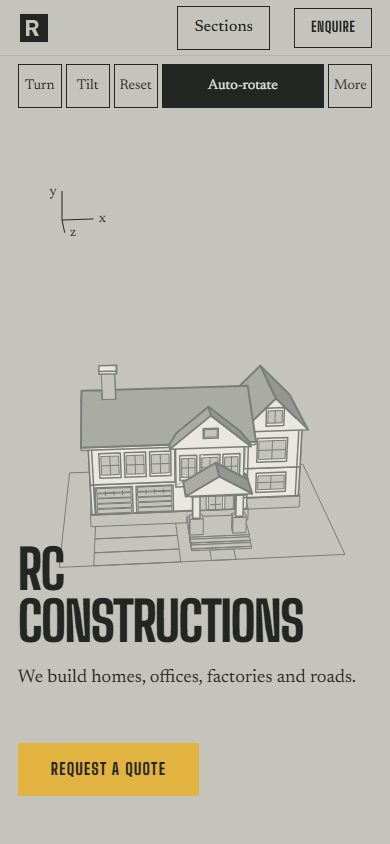
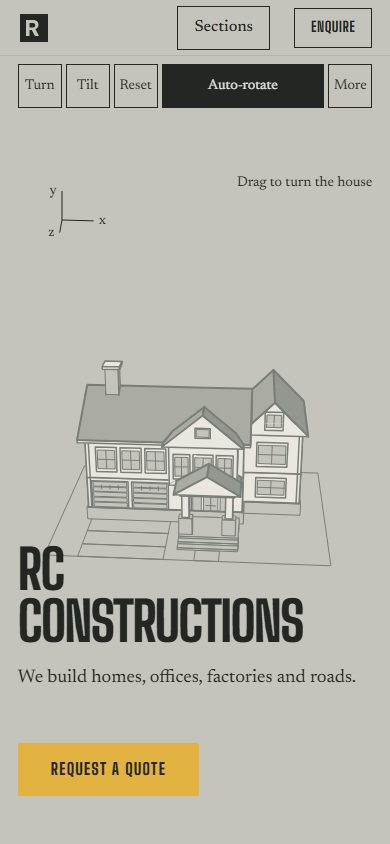
fix: phase 15A follow-up, clear wall fills under text and fit the founder portrait
Below 1024 px the wall fills of the background building are hidden under a block of text as
well, so text areas are clear and the building shows between the blocks. On wide screens the
Founder portrait slot is sized to the screen so the whole 4:5 frame is in view beside the text.
Handover screenshots, after sheets and the review notes were refreshed.

diff --git a/src/components/Building/textClear.ts b/src/components/Building/textClear.ts
@@ -11,11 +11,11 @@ import { MOTION } from '../../lib/motion';
  * Text rectangles are measured in document coordinates once (and again when the layout changes),
  * so each scroll frame is only arithmetic plus one bounding-box read per detail element.
  */
-/** Detail that is hidden under text (window frames and openings, panes, mullions, rails, strings, and the thin slab and beam strips, which read as highlight bars behind a line of text). */
+/** What is hidden under text: window frames, openings and panes, mullions, rails, strings, the thin slab and beam strips (they read as highlight bars behind a line of text) and the wall fills. */
 const DETAIL =
-  '.b-mullion, .b-frame, .b-pane, .b-rail, .b-stair, .b-string, .b-starter, .b-level, .b-datum, .b-opening, .b-door, .b-slab, .b-beam, .b-canopy, .b-ground-slab, .b-stub, .b-tie';
-/** Structure whose outline is hidden under text (the fill stays, so the building is still there). */
-const OUTLINE = '.b-wall, .b-col, .b-core, .b-parapet, .b-footing';
+  '.b-mullion, .b-frame, .b-pane, .b-rail, .b-stair, .b-string, .b-starter, .b-level, .b-datum, .b-opening, .b-door, .b-slab, .b-beam, .b-canopy, .b-ground-slab, .b-stub, .b-tie, .b-wall, .b-parapet';
+/** Structure that keeps its fill under text but loses its outline (columns, core, footings). */
+const OUTLINE = '.b-col, .b-core, .b-footing';
 const TEXT_SCOPE = '.sheet-stage :is(h1, h2, h3, p, li, span, td, dt, dd, a, strong)';
 
 interface Box {

diff --git a/src/sections/Founder/Founder.css b/src/sections/Founder/Founder.css
@@ -169,6 +169,14 @@
   color: var(--color-ink-muted-light);
 }
 
+/* Wide screens: the portrait slot is no taller than the screen allows, so the whole frame is in view
+   beside the text (it keeps its 4:5 shape) */
+@media (width >= 1024px) {
+  .founder-portrait-frame {
+    max-width: min(440px, calc((100dvh - 26rem) * 0.8));
+  }
+}
+
 /* Responsive (< 1024px) */
 @media (width < 1024px) {
   .founder-grid {

diff --git a/docs/DESIGN-REVIEW-phase-15a.md b/docs/DESIGN-REVIEW-phase-15a.md
@@ -10,14 +10,14 @@ Leftovers that Phase 14E itself did not finish (its independent review and a mea
 
 ## Part A: the leftovers
 
-| #   | Leftover                                  | Result                                                                                                                                                                                                                                                                                                                                                                                                                                                                                        |
-| --- | ----------------------------------------- | --------------------------------------------------------------------------------------------------------------------------------------------------------------------------------------------------------------------------------------------------------------------------------------------------------------------------------------------------------------------------------------------------------------------------------------------------------------------------------------------- |
-| 1   | Text over the building looks busy (phone) | **Improved, not closed.** Below 1024 px, building detail under a line of text is hidden by region (window frames and openings, mullions, lit panes, rails, the stair, strings, and the thin slab, beam and canopy strips) and structure there loses its outline; the gaps between text blocks are wider. Contrast sampling still passes at 390 and 768. The ghost wall fills still sit behind the words. Frames: `before/sheet-*.jpg` against `after/sheet-*.jpg`, `390x844-structure-1.jpg`. |
-| 2   | The phone house dissolve is dim           | **Fixed.** The house keeps the full tones until the dissolve starts and is dimmed only during it (`--hm-dim`); the hero is unchanged. `after/sheet-morph-390.jpg` against `before/sheet-morph-390.jpg`; test in `e2e/phase-15a.spec.ts`.                                                                                                                                                                                                                                                      |
-| 3   | The phone control strip is crowded        | **Fixed.** Up to 640 px: Turn, Tilt, Reset, Auto-rotate and More on one row, with Turn left, Tilt down, Roll left and Roll right behind More (roll is also a two-finger twist). Targets are at least 44 px and nothing wraps at 360 or 390 px (tested). Wide screens keep all eight controls.                                                                                                                                                                                                 |
-| 4   | No JavaScript                             | **Fixed.** `index.html` inlines the static house and a finished building drawn from the same geometry (all windows lit, entrance, name plate). Tested with JavaScript disabled at 1440x900 and 390x844 (`e2e/phase-15a.spec.ts`); pictures `no-javascript-*` in the handover.                                                                                                                                                                                                                 |
-| 5   | Ambiguous roof and porch views            | **Not reproduced as an ordering fault.** The Phase 14E reference test compares the drawing with an independent z-buffer on every grid orientation and 50 random ones (worst mismatch 0.000%). The side view still looks like roof slabs beside the gable because the roofs have overhangs and the porch posts are thin; that is the geometry as designed, so it was not changed. Roof undersides carry no detail.                                                                             |
-| 6   | Earlier 14B layout items                  | **Not reproduced.** Anchor jumps put every heading below the header at 390, 768 and 1440 px (heading top 112 px against a header 56 px high at 390 and 768); no grey band above About at 1440; Founder and Contact are centred and balanced at 2560x1080. Founder still looks sparse (see weakest list).                                                                                                                                                                                      |
+| #   | Leftover                                  | Result                                                                                                                                                                                                                                                                                                                                                                                                                                                                                                                                                                          |
+| --- | ----------------------------------------- | ------------------------------------------------------------------------------------------------------------------------------------------------------------------------------------------------------------------------------------------------------------------------------------------------------------------------------------------------------------------------------------------------------------------------------------------------------------------------------------------------------------------------------------------------------------------------------- |
+| 1   | Text over the building looks busy (phone) | **Improved, not closed.** Below 1024 px, building detail under a line of text is hidden by region (window frames and openings, mullions, lit panes, rails, the stair, strings, the thin slab, beam and canopy strips, and, after the review, the wall fills) and columns, core and footings there lose their outline; the gaps between text blocks are wider. Contrast sampling still passes at 390 and 768. Text areas are now clear; the building is seen in patches between the blocks. Frames: `before/sheet-*.jpg` against `after/sheet-*.jpg`, `390x844-structure-1.jpg`. |
+| 2   | The phone house dissolve is dim           | **Fixed.** The house keeps the full tones until the dissolve starts and is dimmed only during it (`--hm-dim`); the hero is unchanged. `after/sheet-morph-390.jpg` against `before/sheet-morph-390.jpg`; test in `e2e/phase-15a.spec.ts`.                                                                                                                                                                                                                                                                                                                                        |
+| 3   | The phone control strip is crowded        | **Fixed.** Up to 640 px: Turn, Tilt, Reset, Auto-rotate and More on one row, with Turn left, Tilt down, Roll left and Roll right behind More (roll is also a two-finger twist). Targets are at least 44 px and nothing wraps at 360 or 390 px (tested). Wide screens keep all eight controls.                                                                                                                                                                                                                                                                                   |
+| 4   | No JavaScript                             | **Fixed.** `index.html` inlines the static house and a finished building drawn from the same geometry (all windows lit, entrance, name plate). Tested with JavaScript disabled at 1440x900 and 390x844 (`e2e/phase-15a.spec.ts`); pictures `no-javascript-*` in the handover.                                                                                                                                                                                                                                                                                                   |
+| 5   | Ambiguous roof and porch views            | **Not reproduced as an ordering fault.** The Phase 14E reference test compares the drawing with an independent z-buffer on every grid orientation and 50 random ones (worst mismatch 0.000%). The side view still looks like roof slabs beside the gable because the roofs have overhangs and the porch posts are thin; that is the geometry as designed, so it was not changed. Roof undersides carry no detail.                                                                                                                                                               |
+| 6   | Earlier 14B layout items                  | **Not reproduced.** Anchor jumps put every heading below the header at 390, 768 and 1440 px (heading top 112 px against a header 56 px high at 390 and 768); no grey band above About at 1440; Founder and Contact are centred and balanced at 2560x1080. Founder still looks sparse (see weakest list).                                                                                                                                                                                                                                                                        |
 
 Also changed because a fresh reviewer found it (see below): the dimension labels (for example "8.6 m") were drawn under the house and could be hidden behind a roof; they are now drawn over it.
 
@@ -57,12 +57,12 @@ A fresh-context reviewer was given only the handover screenshots, `DEMO-SCRIPT.m
 
 | Finding                                                                                                                                                                          | Response                                                                                                                                                                                                                                                                                                                                                                                            |
 | -------------------------------------------------------------------------------------------------------------------------------------------------------------------------------- | --------------------------------------------------------------------------------------------------------------------------------------------------------------------------------------------------------------------------------------------------------------------------------------------------------------------------------------------------------------------------------------------------- |
-| Leftover 1 partly closed: hairlines and pale blocks still behind text, grey bars like highlights on phones.                                                                      | Agreed. After review the thin slab, beam, canopy, stub and tie strips (the "bars") are also hidden under text. The ghost wall fills behind words remain; they are fills, not hairlines, and removing them would hide the building where the text is. Still weakest.                                                                                                                                 |
+| Leftover 1 partly closed: hairlines and pale blocks still behind text, grey bars like highlights on phones.                                                                      | Agreed. After review the thin slab, beam, canopy, stub and tie strips (the "bars") and then the wall fills are also hidden under text, so text areas are clear and the building shows in patches between the blocks (`after/sheet-*.jpg` were taken before this last step; see the frames in `docs/review/phase-15a/after/`). The patchy building is the cost.                                      |
 | Leftover 2 cannot be judged; house angles on a dark ground do not match the light hero.                                                                                          | Added four hand-over frames (`morph-1` to `morph-4`, including the dissolve) and moved the house angles onto the hero's concrete.                                                                                                                                                                                                                                                                   |
 | Leftover 3: "More" alone on a second row looks like wrapping; nothing at 360 px.                                                                                                 | Changed to one row (Turn, Tilt, Reset, Auto-rotate, More) at 390 and 360 px, with a test for width, height and wrapping at both.                                                                                                                                                                                                                                                                    |
 | Leftover 4 cannot be shown.                                                                                                                                                      | Added `no-javascript-*` pictures.                                                                                                                                                                                                                                                                                                                                                                   |
 | Leftover 5: side view looks like floating roof slabs; no rolled view.                                                                                                            | Added a rolled view. The side view is the geometry as designed (overhangs, thin posts) and equals the source by the reference test; not changed.                                                                                                                                                                                                                                                    |
-| Leftover 6: Founder lopsided with an empty portrait frame.                                                                                                                       | The portrait is a quiet placeholder until real files are committed (listed in `CONTENT-STATUS.md`). The layout is not changed in this phase. Still weak.                                                                                                                                                                                                                                            |
+| Leftover 6: Founder lopsided with an empty portrait frame.                                                                                                                       | After the review the portrait slot is sized to the screen on wide screens (it keeps its 4:5 shape and now sits fully in view beside the text at 1440x900: `after/founder-1440.jpg`). The portrait is still a quiet placeholder until real files are committed (listed in `CONTENT-STATUS.md`); the text column is short, so the lower left is still empty. Still weak.                              |
 | Leftover 7: no sample label visible in the Projects pictures.                                                                                                                    | The note sits under the Projects heading and the pictures had scrolled past it; the capture now starts at the heading. The sample projects' exact places and years still read as real; the note is small. Still weak.                                                                                                                                                                               |
 | Script contradictions: "the building never gets ahead", "pause on step 04 (the frame rises)", "Services lists the trades", "each row previews a drawing", the 99 and 100 scores. | True of the page, not of my wording. The step map from Phase 14B draws the foundation through steps 01 to 03 (planning steps) and the frame at step 04 ("Mobilisation"); the process copy was not changed. The script now says so plainly, says Services lists kinds of building, says a hover previews a project, and gives 98 to 99 and 100. The mapping of copy to stage is itself weak (below). |
 | Script surprises: header says "Principles" and "Track record"; eight buttons on desktop against four on a phone; few lit windows on phone Work delivered.                        | The script now names the header links and both control sets. The phone Work delivered plates hide most of the lit floors by design (they keep text legible); not changed.                                                                                                                                                                                                                           |
@@ -77,11 +77,15 @@ A fresh-context reviewer was given only the handover screenshots, `DEMO-SCRIPT.m
 
 `pnpm test:e2e`, all five projects (chromium, Mobile Chrome, chromium-reduced-motion, firefox, webkit; 1,135 tests, 4 workers), run after the last code change (`docs/review/phase-15a/e2e-final2.log`): **803 passed, 331 skipped (tests that apply to other projects), 1 failed**. The failure was the 14C focus-ring test on chromium-reduced-motion, which read the outline while the browser was still easing it in (3 px and no offset instead of 2 px and 2 px). The test now polls until the computed style settles instead of reading it at once; the whole 14C file then passed on all five projects, and the focus-ring test passed three more times on all five. The full suite was not run again after that test-only change. The earlier full run, before the review-driven changes (strip on one row, bars under text, dimension labels over the house), had 801 passed and 3 failed (two WebKit flakes and the Firefox advisory above), which were fixed as described.
 
+## Follow-up after the first commit
+
+Two of the weakest points were worked on in a second commit: under text on phones the wall fills are now hidden too (the text areas are clear, the building shows in patches between blocks), and on wide screens the Founder portrait slot is sized so the whole frame is in view beside the text (it keeps its 4:5 shape). The handover screenshots and the after sheets were taken again. `pnpm check` and `pnpm size` (145.66 kB) pass, and the Phase 12, 13, 14D and 15A specs pass on chromium, Mobile Chrome and chromium-reduced-motion (109 passed, 26 skipped). The full five-project suite was not run again after this follow-up. The loose mapping of the process copy to the building stages was not changed: it needs the company's own wording for the steps.
+
 ## What is still weakest
 
-1. Text over the building on phones is calmer but not clean: ghost wall fills still sit behind the words, and thin bars show at the edges of text blocks.
+1. Text over the building on phones is clear under the words but patchy: the building is only seen between the text blocks, so it can look fragmentary.
 2. The mapping of the process copy to the building stages is loose: steps 01 to 03 (visit, estimate, approvals) are drawn as site and foundation work, step 04 ("Mobilisation") is where the frame rises. It is by order and screen position, not word for word.
-3. Founder and the contact portrait look unfinished until real photos arrive; wide screens leave large empty areas there.
+3. Founder looks sparse until real photos and more founder facts arrive: the portrait is a placeholder and the text column is short.
 4. The sample projects carry plausible places, years and areas; the "sample" note is one small line.
 5. Header: split light and dark over the sheets; the labels "Principles" and "Track record" differ from the section names.
 6. Dimension lines can now cross the house at some angles; roof undersides have no detail.

diff --git a/CLAUDE.md b/CLAUDE.md
@@ -83,7 +83,7 @@ Single-page scroll-driven portfolio site where a building is progressively const
 - Below 1024 px the building is a muted ghost (limewash and concrete text keeps 4.5:1 over any pixel of it); Work delivered blocks sit on flat opaque plates because the windows are full amber there; no translucency, blur or gradient anywhere. `e2e/phase-14d.spec.ts` samples the pixels behind every text block.
 - Phase 14E: the house is drawn from a BSP (`src/lib/model3d/house.bsp.json`) built from the source geometry in `house.ts` by `pnpm model:bsp`; never edit the JSON by hand and never go back to sorting faces by depth. A unit test fails if the JSON is out of date. Keep faces flat, convex and wound outward, put each decal on a face of its own solid, and re-run `pnpm model:bsp`, `pnpm test` and `e2e/phase-14e.spec.ts` after any geometry change (`docs/BUILDING.md` section 6). The orientation is a quaternion (`orientation.ts`): turn about the vertical, tilt about the screen's horizontal axis (limited by elevation), roll about the view axis; reset and the morph use slerp. The bounding sphere must stay inside its container at every rotation.
 - Face paths are integer quarter pixels in a group scaled by 0.25 (face CSS strokes are four times their pixel width). Do not add `vector-effect`, per-element custom properties or per-frame class changes to face paths: they cost more than the drawing. Frame cost at a 4x slowdown must stay at or under 4 ms median.
-- Phase 15A, below 1024 px: the house keeps its full tone until the dissolve starts and is dimmed only during it (`--hm-dim`, from `MOTION.morph.dissolveStart` to `dimEnd`). Building hairlines, window detail and lit panes under a block of text are hidden by region (`src/components/Building/textClear.ts`, `MOTION.textClear`; visibility and outline only, never removed, nothing under 1024 px is cleared on wide screens). Phones (up to 640 px) show Turn, Tilt, Reset and Auto-rotate plus a "More" disclosure (the other directions and roll); the visible short label is contained in the full accessible name, and every target stays 44 px with no wrapping at 360 px.
+- Phase 15A, below 1024 px: the house keeps its full tone until the dissolve starts and is dimmed only during it (`--hm-dim`, from `MOTION.morph.dissolveStart` to `dimEnd`). Building hairlines, window detail and lit panes under a block of text are hidden by region (`src/components/Building/textClear.ts`, `MOTION.textClear`; visibility and outline only, never removed, wall fills included, nothing under 1024 px is cleared on wide screens). Phones (up to 640 px) show Turn, Tilt, Reset and Auto-rotate plus a "More" disclosure (the other directions and roll); the visible short label is contained in the full accessible name, and every target stays 44 px with no wrapping at 360 px.
 - No-JS: `index.html` inlines the static house (`%HERO_MODEL_SVG%`) and the finished building (`%BUILDING_SVG%`, `src/lib/buildingStatic.ts`, styled by `StaticBuilding.css`); `e2e/phase-15a.spec.ts` loads it with JavaScript disabled on desktop and phone widths.
 - Amber only on its dimension lines and labels. Reduced motion: no auto-rotate, inertia or easing. No-JS: the static SVG inlined from `index.html` (`%HERO_MODEL_SVG%`).
 

diff --git a/docs/BUILDING.md b/docs/BUILDING.md
@@ -93,7 +93,7 @@ Controls fade first (`controlsFadeEnd`) and the widget is `inert` once the hero 
 
 ## 3b. Release candidate changes (Phase 15A)
 
-- **Text over the building (below 1024 px).** `src/components/Building/textClear.ts` measures every line of text in the sheets once (document coordinates, again on resize or font load) and, on each scroll frame, hides building detail that lies under a line (window frames and openings, mullions, lit panes, rails, the stair, set-out strings: `visibility: hidden`) and removes the outline of structure there (`stroke: none`; the ghost fill stays). Both are `data-clear` attributes styled in `Building.css`; nothing is removed or moved. The margin is `MOTION.textClear.marginPx`. Between text blocks the building is drawn whole. The gap between text blocks on phones is wider (`SheetStack.css`). Nothing is cleared at 1024 px and above.
+- **Text over the building (below 1024 px).** `src/components/Building/textClear.ts` measures every line of text in the sheets once (document coordinates, again on resize or font load) and, on each scroll frame, hides building detail that lies under a line (window frames and openings, mullions, lit panes, rails, the stair, set-out strings, the thin slab and beam strips and the wall fills: `visibility: hidden`) and removes the outline of columns, core and footings there (`stroke: none`; their fill stays). The building is therefore seen between the text blocks, in patches. Both are `data-clear` attributes styled in `Building.css`; nothing is removed or moved. The margin is `MOTION.textClear.marginPx`. Between text blocks the building is drawn whole. The gap between text blocks on phones is wider (`SheetStack.css`). Nothing is cleared at 1024 px and above.
 - **Phone house tone.** The house is drawn at the full tones of the window palette until the dissolve starts. `--hm-dim` (0 to 1, written by `ModelController.applyMix` from the morph) takes every fill and stroke to the ghost during the dissolve (`MOTION.morph.dissolveStart` to `dimEnd`). It is 0 in the hero, so the hero is unchanged, and it goes back exactly on reverse scroll.
 - **Phone control strip.** Up to 640 px: Turn, Tilt, Reset, Auto-rotate and More (`HeroModel.tsx`). More opens Turn left, Tilt down, Roll left and Roll right. Roll is also a two-finger twist. Wider screens keep all eight controls.
 - **No JavaScript.** The static house and the finished building (all windows lit, entrance, name plate; `src/lib/buildingStatic.ts` from the same geometry as the scrolled drawing) are inlined from `index.html` at build time, styled by `StaticBuilding.css`.
